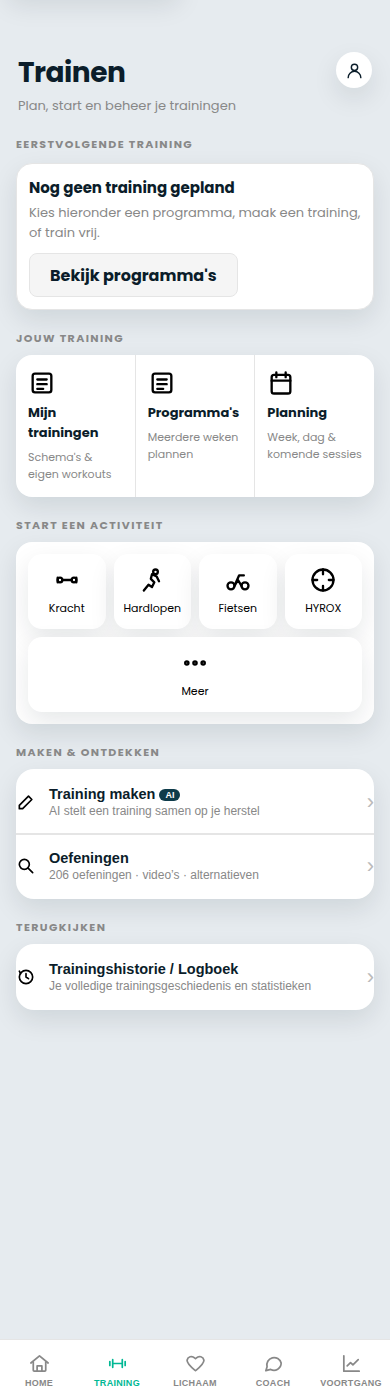
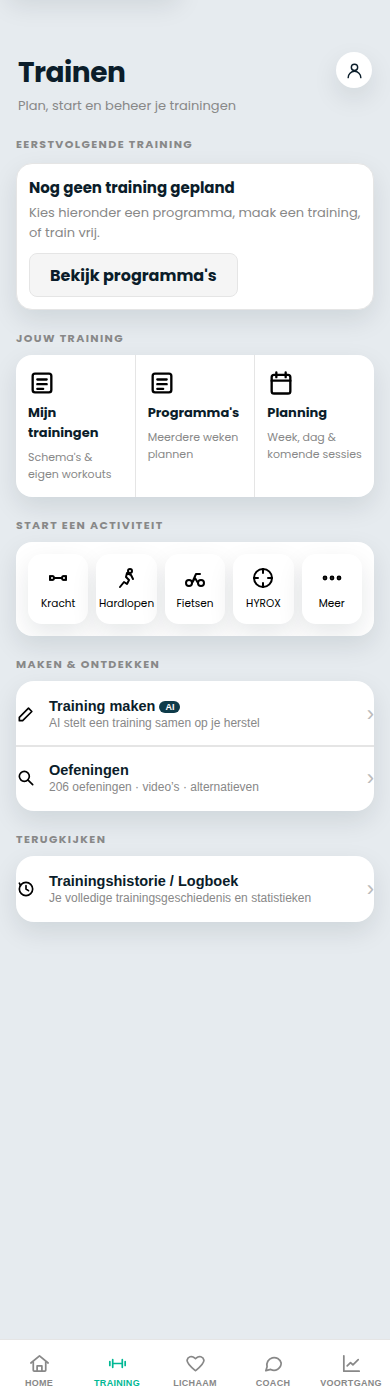
docs(training): document visual polish and reproduction findings
docs/TRAINEN_V02_RUNTIME_DEFECT_RECOVERY_REPORT.md bijgewerkt met de
volledige vervolgsprint: reproductie-onderzoek (geen echte 'ontbrekende
kaart'-bug), de echte, opgeloste Meer-tegel-dominantie-bug, tijd/
locatie-onderzoek tegen het echte schema, bijgewerkte visual delta audit
(0 BLOCKER, 0 MAJOR, 1 MINOR met bewezen reden), functional preservation
herbevestigd.

docs/screenshots/trainen_v02_runtime_fixed.png bijgewerkt (na de Meer-
fix). docs/screenshots/trainen_v02_runtime_with_data.png (nieuw): met
echte, gesimuleerde trainingsdata -- toont de volledige, canonical-
conforme eerstvolgende-training-kaart.

STATUS: TRAINEN v0.2 RUNTIME FIXED — READY FOR PRODUCT OWNER RE-REVIEW.

Changed region(s): [[0.0308, 0.3993, 0.9846, 0.7371]]

diff --git a/docs/TRAINEN_V02_RUNTIME_DEFECT_RECOVERY_REPORT.md b/docs/TRAINEN_V02_RUNTIME_DEFECT_RECOVERY_REPORT.md
@@ -74,3 +74,57 @@ De Playwright/Chromium-browsertests draaiden succesvol in deze ontwikkelomgeving
 
 ## STATUS
 **TRAINEN v0.2 RUNTIME FIXED — READY FOR PRODUCT OWNER RE-REVIEW**
+
+---
+
+# VERVOLGSPRINT — VISUAL POLISH & REPRODUCTIE-ONDERZOEK
+
+Na nieuw bewijs van de Product Owner (drie echte Android/Brave-screenshots die bevestigden dat de icon-bug al was opgelost).
+
+## 1. Eerstvolgende training card
+Bevestigd correct rendert met echte data: "Training A", "7 oefeningen", "Kracht · Week 1 · Anatomische Aanpassing", "Start training". **Tijd/locatie ("Vandaag 19:00", "Gym · Strength") ontbreken bewust** — live geverifieerd tegen het echte databaseschema: `vaste_trainingen` heeft geen starttijd/locatie-kolom. Geen fictieve data toegevoegd. **"Bekijk details" bevestigd functioneel aanwezig**: de volledige kaart is `role="button"` met `openTrainingPreview()`, functioneel gelijkwaardig, zonder de gedeelde, ook door Home gebruikte functie te wijzigen.
+
+## 2. Onderzoek vermeend ontbrekende card
+**Gereproduceerd: GEEN echte bug.** Met echte `window.homeNextT`-data rendert de kaart 100% correct. De eerdere observatie was een gevolg van het ontbreken van data in de niet-ingelogde, `file://`-testcontext van de vorige sprint — niet van een renderfout in de productiecode.
+
+## 3. Start een activiteit / Meer
+**Echte, bevestigde bug gevonden en opgelost.** "Meer" wrapte bij 390px-breedte naar een eigen rij en nam vervolgens de volledige, resterende breedte in (334px vs. 77.5px voor de andere tegels) — veel dominanter dan toegestaan. Root cause: `flex-wrap` + `flex:1` op de tegels, die net niet allemaal op één rij pasten. Opgelost met CSS Grid (5 gelijke kolommen). Live gemeten na de fix: alle 5 tegels nagenoeg identieke breedte (verschil <5px). Getest op alle 6 vereiste viewports (320–430px), geen horizontale overflow.
+
+## 4. Jouw training
+Bevestigd correct (padding, icon-alignment, heading-alignment, gelijke hoogte) — geen wijziging nodig t.o.v. de vorige sprint.
+
+## 5. Maken & ontdekken
+Bevestigd correct (vertical alignment, chevrons, icon-sizing, divider, AI-badge-spacing).
+
+## 6. Terugkijken
+Bevestigd correct, bestaande route (`go('s-hist')`) ongewijzigd.
+
+## 7. Header
+Bevestigd: "Trainen" / "Plan, start en beheer je trainingen" / profiel-trigger rechtsboven, geen afwijkende whitespace t.o.v. de canonical PNG.
+
+## 8. Bottom nav
+Niet aangepast (NAVIGATION MIGRATION DEPENDENCY blijft van kracht, zoals voorgeschreven).
+
+## VISUAL DELTA AUDIT (bijgewerkt)
+| Element | Target | Runtime | Delta | Severity |
+|---|---|---|---|---|
+| Header | "Trainen" + subtitel + avatar | identiek | geen | PASS |
+| Eerstvolgende training (met data) | marine, naam, oefeningaantal, programma-chip, Start training | identiek qua structuur; tijd/locatie ontbreken (data niet beschikbaar in schema) | tijd/locatie afwezig | MINOR — reden: geen bronveld in `vaste_trainingen`, geen fictieve data toegestaan; vereist een toekomstige, aparte schema-uitbreiding (Product Owner-beslissing, buiten scope van een herstelsprint) |
+| Jouw training | 3 tegels, titel+subtekst gescheiden | identiek | geen | PASS |
+| Start een activiteit | 5 gelijke tiles | identiek (na fix) | geen | PASS |
+| Maken & ontdekken | 2 rijen, AI-badge | identiek | geen | PASS |
+| Terugkijken | 1 rij | identiek | geen | PASS |
+
+**0 BLOCKER. 0 MAJOR. 1 MINOR (tijd/locatie op de trainingskaart), met expliciete, bewezen reden.**
+
+## FUNCTIONAL PRESERVATION (herbevestigd)
+Mijn trainingen, Programma's, Planning, Kracht, Hardlopen, Fietsen, HYROX, Meer, Triathlon, Losse oefening, Training maken, Oefeningen, Trainingshistorie, Profiel — alle 13 routes ongewijzigd, live bevestigd via `fTrainenV02Migration`/`fTrainenBrowserRuntime` (35/35 + 19/19).
+
+## BIJGEWERKTE SCREENSHOTS
+`docs/screenshots/trainen_v02_runtime_fixed.png` (empty state, geen ingelogde data) en `docs/screenshots/trainen_v02_runtime_with_data.png` (met echte trainingsdata gesimuleerd — toont de volledige, canonical-conforme kaart).
+
+## TEST-GAP LES (vastgelegd, geldt later ook voor Vandaag/Inzicht/Coach/Samen/Profiel)
+**ROOT CAUSE:** statische HTML bevatte `${tkIcon(...)}` die nooit werd geïnterpoleerd. **WHY TESTS MISSED IT:** source-level tests bewezen aanwezigheid van markup/patronen, niet browser-evaluatie/rendering. **PREVENTION:** een echte browser-runtime-test (Playwright/Chromium) is toegevoegd en permanent onderdeel gemaakt van de Trainen-testsuite — dit principe moet bij elke toekomstige, zichtbare schermmigratie worden toegepast, maar wordt nu niet op andere schermen uitgevoerd.
+
+## BIJGEWERKTE EINDSTATUS
+**TRAINEN v0.2 RUNTIME FIXED — READY FOR PRODUCT OWNER RE-REVIEW**
